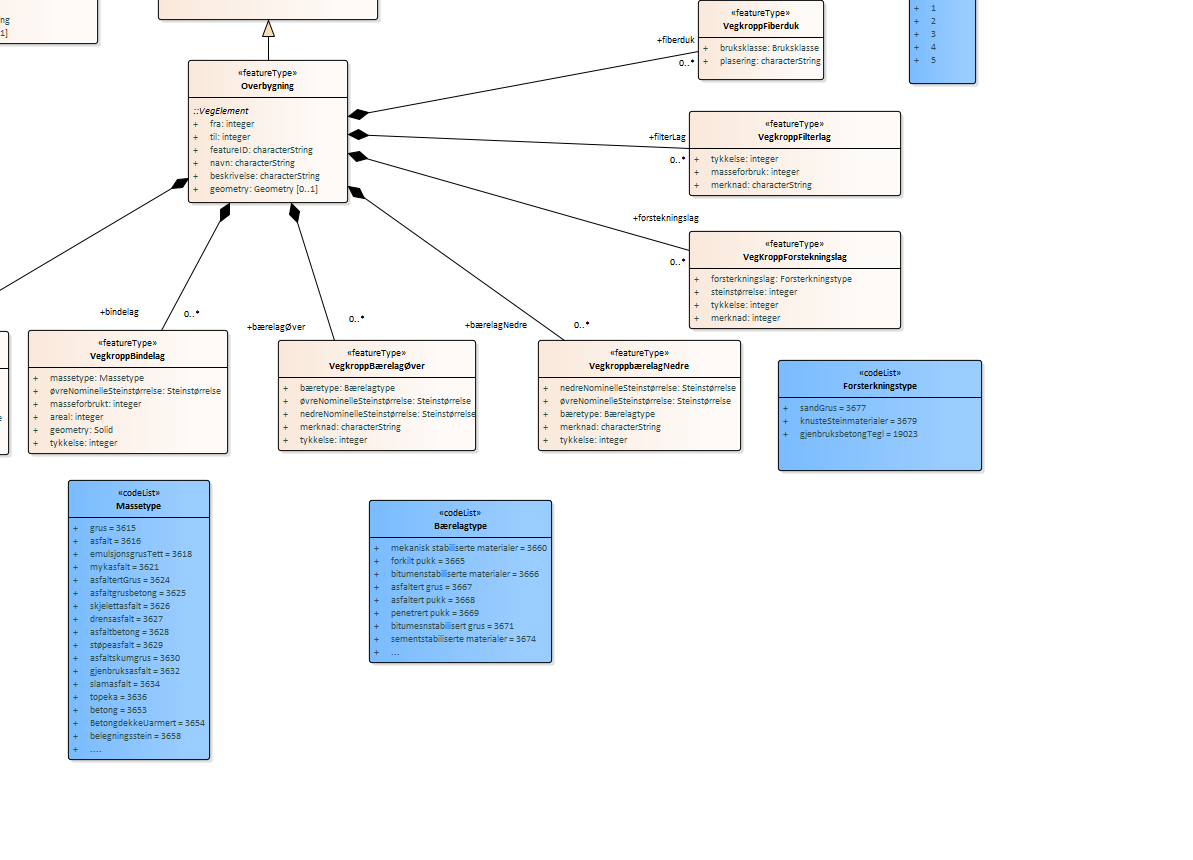
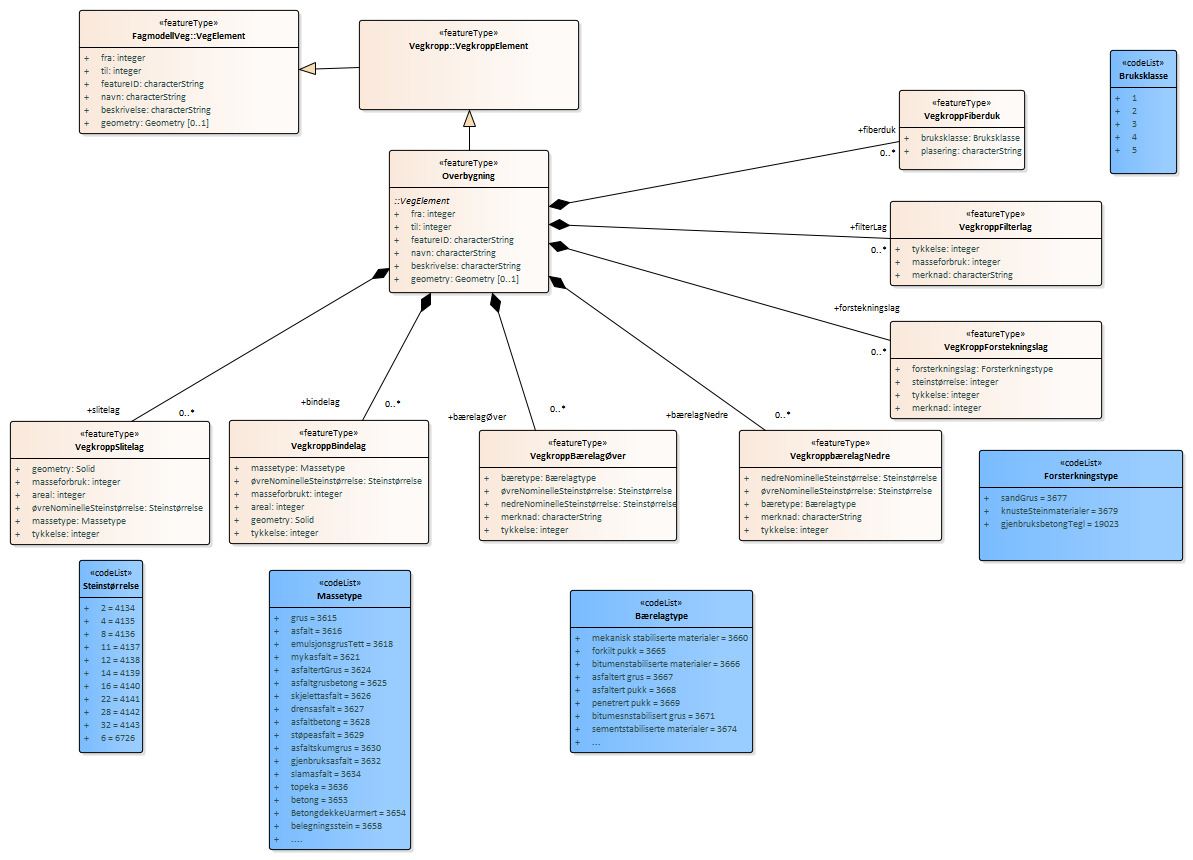
change size to page

diff --git a/EARoot/EA1/EA1/EA6/EA1/EA140.htm b/EARoot/EA1/EA1/EA6/EA1/EA140.htm
@@ -36,32 +36,32 @@ function nameClassifier(name, separator)
 <img src="EA141.png" usemap="#EA141" border="0" />
 
 <MAP NAME="EA141">
-<area shape="rect" coords="-122,-80,98,44" href="../../../EA13.htm" target="_self">
-<area shape="rect" coords="158,-70,378,20" href="../EA137.htm" target="_self">
-<area shape="rect" coords="909,-40,976,84" href="EA144.htm" target="_self">
-<area shape="rect" coords="778,360,982,471" href="EA145.htm" target="_self">
-<area shape="rect" coords="369,500,552,663" href="EA143.htm" target="_self">
-<area shape="rect" coords="68,480,210,760" href="EA146.htm" target="_self">
+<area shape="rect" coords="79,10,299,134" href="../../../EA13.htm" target="_self">
+<area shape="rect" coords="359,20,579,110" href="../EA137.htm" target="_self">
+<area shape="rect" coords="1110,50,1177,174" href="EA144.htm" target="_self">
+<area shape="rect" coords="979,450,1183,561" href="EA145.htm" target="_self">
+<area shape="rect" coords="570,590,753,753" href="EA143.htm" target="_self">
+<area shape="rect" coords="269,570,411,850" href="EA146.htm" target="_self">
 <area shape="rect" coords="79,560,143,753" href="EA148.htm" target="_self">
-<area shape="rect" coords="188,60,348,203" href="EA147.htm" target="_self">
-<area shape="rect" coords="698,0,824,80" href="EA152.htm" target="_self">
-<area shape="rect" coords="689,111,901,196" href="EA153.htm" target="_self">
-<area shape="rect" coords="689,231,901,329" href="EA154.htm" target="_self">
-<area shape="rect" coords="538,340,741,451" href="EA149.htm" target="_self">
-<area shape="rect" coords="278,340,476,451" href="EA150.htm" target="_self">
-<area shape="rect" coords="28,330,228,454" href="EA151.htm" target="_self">
-<area shape="rect" coords="-191,331,9,455" href="EA155.htm" target="_self">
+<area shape="rect" coords="389,150,549,293" href="EA147.htm" target="_self">
+<area shape="rect" coords="899,90,1025,170" href="EA152.htm" target="_self">
+<area shape="rect" coords="890,201,1102,286" href="EA153.htm" target="_self">
+<area shape="rect" coords="890,321,1102,419" href="EA154.htm" target="_self">
+<area shape="rect" coords="739,430,942,541" href="EA149.htm" target="_self">
+<area shape="rect" coords="479,430,677,541" href="EA150.htm" target="_self">
+<area shape="rect" coords="229,420,429,544" href="EA151.htm" target="_self">
+<area shape="rect" coords="10,421,210,545" href="EA155.htm" target="_self">
 </MAP>
 
 	<div class="ObjectTitle">Oversiktsdiagram Overbygning : Class diagram</div>
 	<table border="0" cellpadding="0" cellspacing="0" class="ObjectDetails">
 		<tr>
 			<td width="15%" class="ObjectDetailsTopic">Created:</td>
-			<td width="85%" class="ObjectDetailsValue">20.06.2022 13:35:33</td>
+			<td width="85%" class="ObjectDetailsValue">20.06.2022 00:00:00</td>
 		</tr>
 		<tr>
 			<td width="15%" class="ObjectDetailsTopic">Modified:</td>
-			<td width="85%" class="ObjectDetailsValue">29.06.2022 15:32:37</td>
+			<td width="85%" class="ObjectDetailsValue">30.06.2022 15:42:51</td>
 		</tr>
 		<tr style="padding-top: 10px;">
 			<td width="15%" class="ObjectDetailsTopic"><img src="../../../../../images/plus03.gif" align="absmiddle" id="proj" onclick="parent.toggleData(this.id)" />Project:</td>
